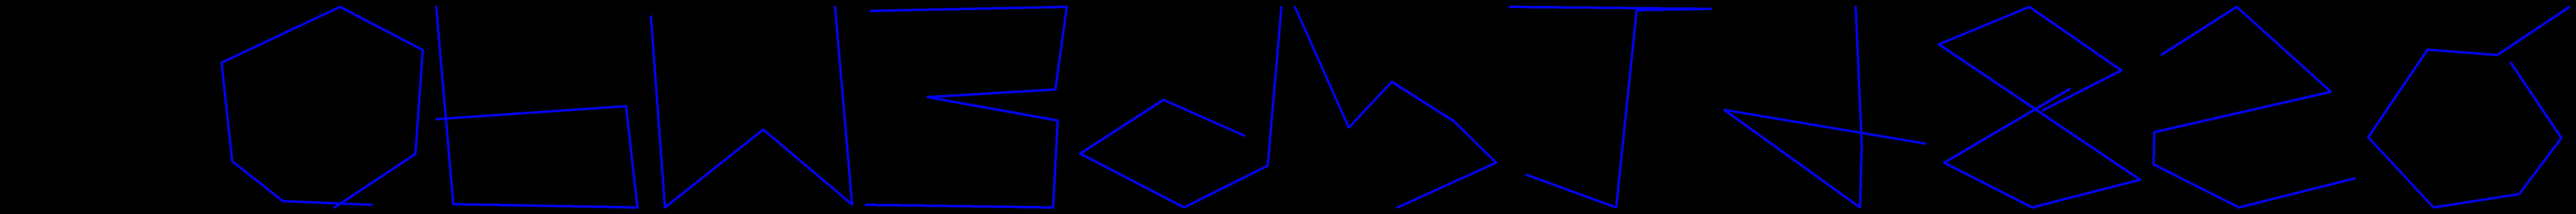
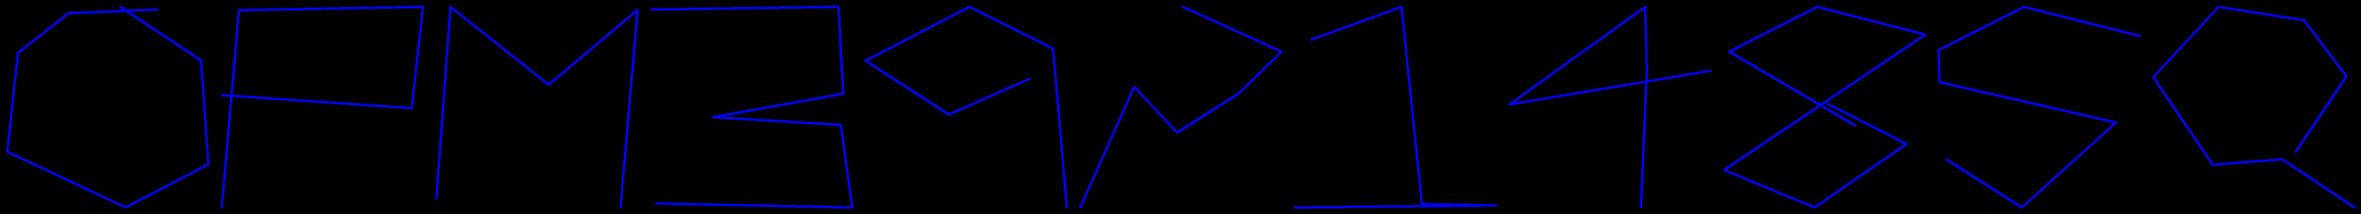
Fix bugs for output image.

diff --git a/geo.py b/geo.py
@@ -9,7 +9,7 @@ def geo():
     ks = list(data.keys())
     ks = list(map(int, ks))
     ks.sort()
-    rimg = np.zeros((640, 640, 3), np.uint8)
+    rimg = np.zeros((640, 1, 3), np.uint8)
     for kid, k in enumerate(ks):
         row = data[str(k)]
         img = np.zeros((640, 640, 3), np.uint8)
@@ -26,7 +26,7 @@ def geo():
             x = int(x)
             y = float(p["lat"])
             y = ((y - latmin) / lats) * 600 + 20
-            y = int(y)
+            y = 640 - int(y)
             if idx != 0:
                 print("from x " + str(x) + " y " + str(y))
                 print("to x " + str(ox) + " y " + str(oy))
